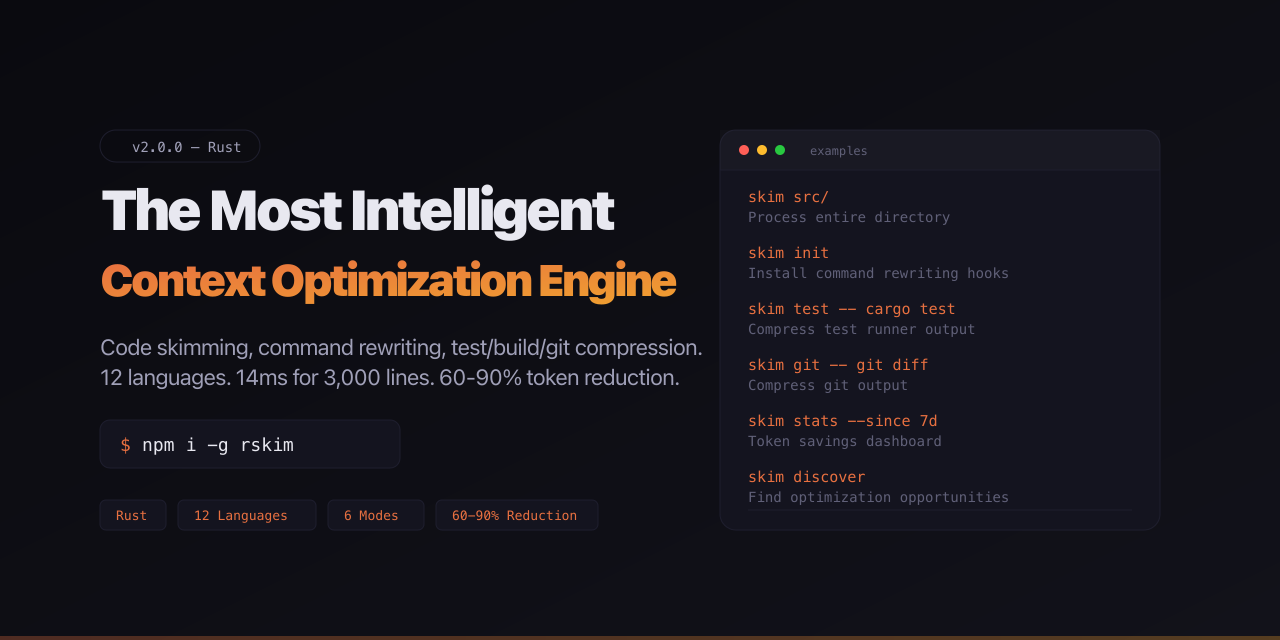
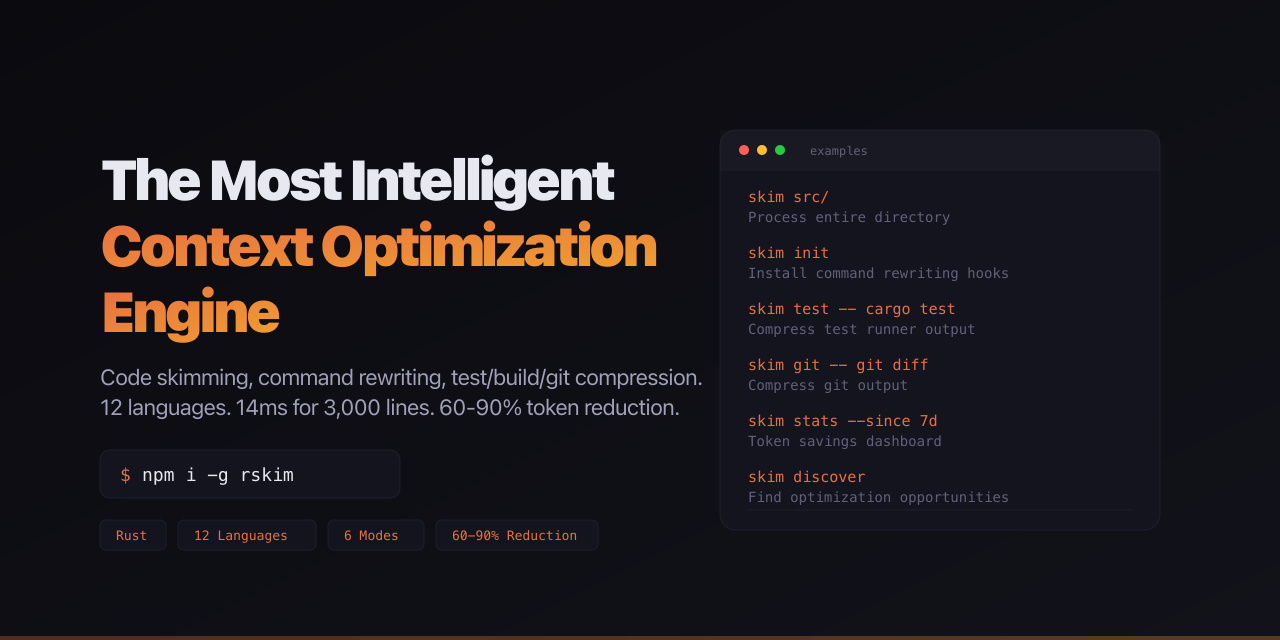
feat: refine Skim landing page, remove version chips from all social previews
- Skim features section title: "Strip implementation, keep structure"
- Skim terminal: starts with skim init, adds discover + stats demos
- All social preview SVGs: removed version badge chips
- Skim social preview: title on 3 lines at full 56px size
- Regenerated all og.png files

diff --git a/sites/skim/src/data.ts b/sites/skim/src/data.ts
@@ -120,11 +120,19 @@ export const features: BentoItemProps[] = [
 
 export const terminalWalkthrough = [
   {
-    cmd: 'skim src/auth.ts --mode signatures',
+    cmd: 'skim init',
     output: [
-      'export function login(user: User): Promise<Session>',
-      'export function logout(): void',
-      'export function refreshToken(token: string): Promise<Token>',
+      '  skim init \u2014 Claude Code integration setup',
+      '',
+      '  Checking current state...',
+      '  \u2713 skim binary: /usr/local/bin/skim',
+      '  \u2713 Hook: not installed',
+      '',
+      '  \u2713 Created: ~/.claude/hooks/skim-rewrite.sh',
+      '  \u2713 Patched: settings.json (PreToolUse hook added)',
+      '  \u2713 Registered: skim marketplace',
+      '',
+      '  Done! skim is now active in Claude Code.',
     ],
   },
   {
@@ -138,6 +146,34 @@ export const terminalWalkthrough = [
       'pub fn connect(url: &str) -> Result<Connection> { /* ... */ }',
       '',
       '[skim] 24,192 tokens \u2192 3,420 tokens (85.8% reduction)',
+    ],
+  },
+  {
+    cmd: 'skim discover',
+    output: [
+      '  skim discover \u2014 optimization opportunities',
+      '',
+      '  Sessions scanned: found 84 tool invocations',
+      '',
+      '  Code Reads: 52 total (41 skimmable, 11 non-code)',
+      '    Tokens consumed: 156,000',
+      '    Estimated savings with skim: ~109,200 tokens (~70.0%)',
+      '',
+      '  Commands: 32 total (18 rewritable)',
+      '',
+      '  hint: run `skim init` to install the PreToolUse hook',
+    ],
+  },
+  {
+    cmd: 'skim stats --since 7d',
+    output: [
+      '  Token Analytics (last 7 days)',
+      '',
+      '  Summary',
+      '    Invocations:    142',
+      '    Tokens saved:   284,000',
+      '    Avg reduction:  72.3%',
+      '    [\u2588\u2588\u2588\u2588\u2588\u2588\u2588\u2588\u2588\u2588\u2588\u2588\u2588\u2588\u2591\u2591\u2591\u2591\u2591\u2591] 72.3%',
     ],
   },
 ];

diff --git a/sites/skim/src/App.tsx b/sites/skim/src/App.tsx
@@ -59,7 +59,7 @@ export function App() {
 
       <div className="section-divider" />
 
-      <Section id="features" title="The AI-first code reader" variant="alt">
+      <Section id="features" title="Strip implementation, keep structure" variant="alt">
         <div className="animate-in">
           <BentoGrid items={features} />
         </div>
